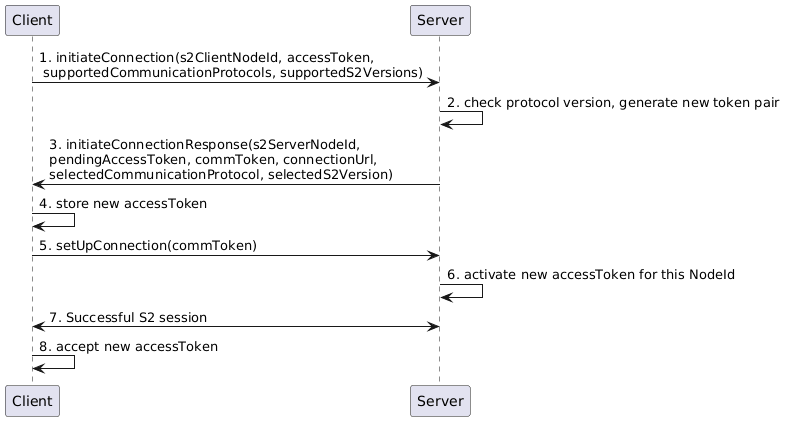
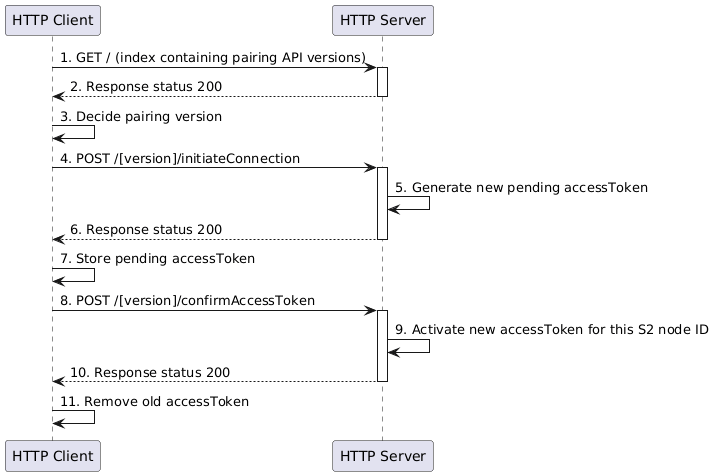
Further expanded pairing documentation

diff --git a/website/docs/communication-layer/discovery-pairing-authentication.md b/website/docs/communication-layer/discovery-pairing-authentication.md
@@ -67,10 +67,8 @@ Serialization: json.
 **Why not oAuth 2.0?**
 
 The short answer is: oAuth is mainly designed for accessing protected resources in the cloud and since the S2 CEM and RM would also need to be able to pair on a local network (even without requiring internet access) oAuth 2.0 is simply not a good fit. We have identified a way to make it work but since it is such non-typical way, we choose not to use oAuth 2.0. 
+
 For the long answer, please refer to [this page](why-not-oauth.md).
-
-
-
 
 ## Security requirements
 
@@ -123,21 +121,19 @@ The entire trust model of S2 is based on the fact that there is already a trust 
 
 # Terms and definitions (normative)
 
-TODO waar handig linkjes toevoegen naar sections met meer uitleg
-
 This specification uses the concepts that are defined below.
 
 | Term | Definition |
 | --- | --- |
-| Access token | A token that is used for setting up an S2 connection. It random binary data and must be generated by a cryptographically secure pseudorandom number generator and have a minimum length of 32 bytes. It is encoded using Base64. |
+| Access token | A token that is used for setting up an S2 connection. It random binary data and must be generated by a cryptographically secure pseudorandom number generator and have a minimum length of 32 bytes. It is encoded using Base64. Also see [11A. Response status 200](#11a-response-status-200). |
 | End user | A person or entity that manages S2 nodes. For the purpose of this specification it is assumed that there is already a trust relationship in place between this person and the S2 nodes. The means that the way the trust relationship has been established is out of scope for this specification. |
-| End user environment | An restricted area within an application that contains all the S2 nodes that belong to the end user. |
-| Initiator S2 node | The S2 node that that takes the initiative to pair with a responder S2 node. This is typically the S2 node from which the user initiates the pairing process. It is the counterpart of the responder S2 node. |
+| End user environment | An restricted area within an application that contains all the S2 nodes that belong to the end user. Also see [Deployment of S2 nodes](#deployment-of-s2-nodes). |
+| Initiator S2 node | The S2 node that that takes the initiative to pair with a responder S2 node. This is typically the S2 node from which the user initiates the pairing process. It is the counterpart of the responder S2 node. Also soo [Pairing and unpairing from the perspective of the end user](#pairing-and-unpairing-from-the-perspective-of-the-end-user). |
 | Pairing attempt | The process of pairing two S2 nodes. The process can be completed successfully or unsuccessfully. |
-| Pairing code | The pairing code is the string of characters the end user has to copy from the responder S2 node user interface to the initiator S2 node user interface, in order to pair the two S2 nodes. The pairing code consist of a pairing token and when required a pairing S2 node ID. |
-| Pairing S2 node ID | A short identifier for an S2 node, which is unique in the context of a single S2 endpoint. |
-| Pairing token | A secret string of characters, which acts as a proof of the trust relationship between the end user and an S2 node |
-| Responder S2 Node |  The S2 node that that responds to a request to pair. This is the S2 node that issued the pairing code. It is the counterpart of the initiator S2 node. |
+| Pairing code | The pairing code is the string of characters the end user has to copy from the responder S2 node user interface to the initiator S2 node user interface, in order to pair the two S2 nodes. The pairing code consist of a pairing token and when required a pairing S2 node ID. Also see [The pairing token, the pairing S2 node ID and the pairing code](#the-pairing-token-the-pairing-s2-node-id-and-the-pairing-code). |
+| Pairing S2 node ID | A short identifier for an S2 node, which is unique in the context of a single S2 endpoint. Also see [The pairing token, the pairing S2 node ID and the pairing code](#the-pairing-token-the-pairing-s2-node-id-and-the-pairing-code). |
+| Pairing token | A secret string of characters, which acts as a proof of the trust relationship between the end user and an S2 node. Also see [The pairing token, the pairing S2 node ID and the pairing code](#the-pairing-token-the-pairing-s2-node-id-and-the-pairing-code). |
+| Responder S2 Node |  The S2 node that that responds to a request to pair. This is the S2 node that issued the pairing code. It is the counterpart of the initiator S2 node. Also soo [Pairing and unpairing from the perspective of the end user](#pairing-and-unpairing-from-the-perspective-of-the-end-user). |
 | S2 endpoint | A service which can handle pairing requests or initiates pairing requests itself. An S2 endpoint can represent one S2 node, but could also represent many. |
 | S2 communication client | The S2 nodes which behaves as the HTTP client when initiating an S2 connection. |
 | S2 communication server | The S2 nodes which behaves as the HTTP server when initiating an S2 connection. |
@@ -548,7 +544,7 @@ The client **must** perform the following checks during this request:
 | Check | How to proceed if check fails |
 | --- | --- |
 | Check certificate | Pairing is failed, do not proceed with the pairing attempt |
-| If self signed certificate, check is server is local | Pairing is failed, do not proceed with the pairing attempt |
+| If self signed certificate, check if server is local | Pairing is failed, do not proceed with the pairing attempt |
 | Store fingerprint of certificate for later check | | 
 
 If no checks fail the client **should** proceed to the next step.
@@ -568,8 +564,8 @@ The client sends the following information (for full details see the OpenAPI spe
 
 | Information | Description |
 | --- | --- |
-| `s2ClientNodeDescription` | Information about the S2 node that wants to pair, such as brand, logo and type. Important fields include `id` (the S2 node ID) and `role` of the initiator S2 node |
-| `s2ClientEndpointDescription` | Information about the client S2 endpoint. An important field is the deployment. |
+| `clientS2NodeDescription` | Information about the S2 node that wants to pair, such as brand, logo and type. Important fields include `id` (the S2 node ID) and `role` of the initiator S2 node |
+| `clientS2EndpointDescription` | Information about the client S2 endpoint. An important field is the deployment. |
 | `pairingS2NodeID` | The pairing S2 node ID of the node that is being targeted (this field can be omitted if the endpoint only represents one S2 node) |  
 | `supportedCommunicationProtocols` | List of supported communications protocols of the client |
 | `supportedS2MessageVersions` | List of supported S2 message versions by the client |
@@ -582,7 +578,7 @@ The client **must** perform the following checks during this request:
 | Check | How to proceed if check fails |
 | --- | --- |
 | Check certificate | Pairing is failed, do not proceed with the pairing attempt |
-| If self signed certificate, check is server is local | Pairing is failed, do not proceed with the pairing attempt |
+| If self signed certificate, check if server is local | Pairing is failed, do not proceed with the pairing attempt |
 | Check if same fingerprint is used as previous request | Pairing is failed, do not proceed with the pairing attempt | 
 
 If no checks fail the client **should** proceed to the next step.
@@ -622,8 +618,8 @@ The server responds with the following information (for full details see the Ope
 | Information | Description |
 | --- | --- |
 | `pairingAttemptId` | The generated identifier for this pairing attempt |
-| `s2ServerNodeDescription` | Information about the S2 node that is being targeted, such as brand, logo and type. Important fields include `id` (the S2 node ID) and `role` of the responder S2 node |
-| `s2ServerEndpointDescription` | Information about the server S2 endpoint. An important field is the deployment. |
+| `serverS2NodeDescription` | Information about the S2 node that is being targeted, such as brand, logo and type. Important fields include `id` (the S2 node ID) and `role` of the responder S2 node |
+| `serverS2EndpointDescription` | Information about the server S2 endpoint. An important field is the deployment. |
 | `selectedHmacHashingAlgorithm` | The hashing algorithm for the challenge response function as selected in step 2 |
 | `clientHmacChallengeResponse` | The response to the challenge provided by the HTTP client as calculated in step 2 |
 | `serverHmacChallenge` | The challenge created by the HTTP server for the challenge response process (see [Challenge response process](#challenge-response-process).) |
@@ -667,7 +663,7 @@ The client **must** perform the following checks during this request:
 | Check | How to proceed if check fails |
 | --- | --- |
 | Check certificate | Pairing is failed, do not proceed with the pairing attempt |
-| If self signed certificate, check is server is local | Pairing is failed, do not proceed with the pairing attempt |
+| If self signed certificate, check if server is local | Pairing is failed, do not proceed with the pairing attempt |
 | Check if certificate is pinned | Pairing is failed, do not proceed with the pairing attempt | 
 
 If no checks fail the client **should** proceed to the next step.
@@ -707,7 +703,7 @@ The client **must** perform the following checks during this request:
 | Check | How to proceed if check fails |
 | --- | --- |
 | Check certificate | Pairing is failed, do not proceed with the pairing attempt |
-| If self signed certificate, check is server is local | Pairing is failed, do not proceed with the pairing attempt |
+| If self signed certificate, check if server is local | Pairing is failed, do not proceed with the pairing attempt |
 | Check if certificate is pinned | Pairing is failed, do not proceed with the pairing attempt | 
 
 If no checks fail the client **should** proceed to the next step.
@@ -739,7 +735,7 @@ The client **must** perform the following checks during this request:
 | Check | How to proceed if check fails |
 | --- | --- |
 | Check certificate | Pairing is failed, do not proceed with the pairing attempt |
-| If self signed certificate, check is server is local | Pairing is failed, do not proceed with the pairing attempt |
+| If self signed certificate, check if server is local | Pairing is failed, do not proceed with the pairing attempt |
 | Check if certificate is pinned | Pairing is failed, do not proceed with the pairing attempt | 
 
 If no checks fail the client **should** proceed to the next step.
@@ -763,7 +759,7 @@ If the HTTP server was using a self-signed certificate, the HTTP client can now 
 ### Interruption of the process
 A pairing attempt has a maximum duration of 15 seconds. That means that once a `pairingAttemptId` has been issued, this `pairingAttemptId` cannot be used after 15 seconds since it was issued. From the perspective of the HTTP server, any pairing attempt that is not completed in 15 seconds (with success or not) is considered a failed attempt. From the perspective of the HTTP client, if the server does not respond within 15 seconds since it received the `pairingAttemptId`, it must consider the pairing attempt as failed. If the HTTP client wants to make another attempt, it should start again at step 1 or step 4.
 
-### Wrong interactions
+### Invalid interactions
 If the server receives wrong HTTP request (e.g. `/postConnectionDetails` while it was expecting `/requestConnectionDetails`) or when it receives the requests in the wrong order (e.g. `/finalizePairing` with `success` = `true` before calling `/requestConnectionDetails`) it **must** respond with an status 400 and consider the pairing attempt as failed. The only exception is receiving the same request twice.
 
 # S2 Connection (normative)
@@ -816,7 +812,7 @@ Client->Client: 7. Store pending accessToken
 Client->Server++: 8. POST /[version]/confirmAccessToken
 Server->Server: 9. Activate new accessToken for this S2 node ID 
 Server-->Client--: 10. Response status 200
-Client -> Client : 11. Accept new accessToken
+Client -> Client : 11. Remove old accessToken
 @enduml
 ```
 
@@ -861,7 +857,7 @@ The client **must** perform the following checks during this request:
 | Check | How to proceed if check fails |
 | --- | --- |
 | Check certificate | Initiation is failed, do not proceed with the initiation attempt |
-| If self signed certificate, check is server is local | Initiation is failed, do not proceed with the initiation attempt |
+| If self signed certificate, check if server is local | Initiation is failed, do not proceed with the initiation attempt |
 | Check if certificate is pinned | Initiation is failed, do not proceed with the initiation attempt | 
 
 If no checks fail the client **should** proceed to the next step.
@@ -870,10 +866,10 @@ The client sends the following information (for full details see the OpenAPI spe
 
 | Information | Description |
 | --- | --- |
-| `s2ClientNodeId` | The S2 node ID of the S2 communications client that wants to connect to the server. |
-| `s2ServerNodeId` | The S2 node ID of the S2 communications server that the client wants to connect to. |
-| `s2ClientNodeDescription` | Information about the S2 node, such as brand, logo and type. This only needs to be provided if the S2 communication client wants to update this information, otherwise the S2 communication server will assumer the stored information is still valid. |
-| `s2ClientEndpointDescription` | Information about the client S2 endpoint. This only needs to be provided if the S2 communication client wants to update this information, otherwise the S2 communication server will assumer the stored information is still valid. |
+| `clientS2NodeId` | The S2 node ID of the S2 communications client that wants to connect to the server. |
+| `serverS2NodeId` | The S2 node ID of the S2 communications server that the client wants to connect to. |
+| `clientS2NodeDescription` | Information about the S2 node, such as brand, logo and type. This only needs to be provided if the S2 communication client wants to update this information, otherwise the S2 communication server will assumer the stored information is still valid. |
+| `clientS2EndpointDescription` | Information about the client S2 endpoint. This only needs to be provided if the S2 communication client wants to update this information, otherwise the S2 communication server will assumer the stored information is still valid. |
 | `supportedCommunicationProtocols` | List of supported communications protocols of the client |
 | `supportedS2MessageVersions` | List of supported S2 message versions by the client |
 
@@ -883,9 +879,9 @@ The server **must** perform the checks in the table below to make sure that it c
 | --- | --- | --- |
 | Is the request properly formatted and does it follow the schema? | `CommunicationDetailsErrorMessage` with errorMessage `Parsing error` | Retry later |
 | Was this S2 node ID paired with this S2 node, but was it unpaired? | `CommunicationDetailsErrorMessage` with errorMessage `No longer paired` | Do not retry, inform end user |
-| Is this `s2ClientNodeId` paired with the `s2ServerNodeId`? | Status code 401 | Do not retry, inform end user |
-| Is the `s2ServerNodeId` known? | Status code 401 | Do not retry, inform end user |
-| Is this the correct `accessToken` for this S2 node ID?  | Status code 401 | Do not retry, inform end user |
+| Is this `clientS2NodeId` paired with the `serverS2NodeId`? | Status code 401 | Try with other `accessToken` if possible. Otherwise do not retry, inform end user |
+| Is the `serverS2NodeId` known? | Status code 401 | Try with other `accessToken` if possible. Otherwise do not retry, inform end user |
+| Is this the correct `accessToken` for this S2 node ID?  | Status code 401 | Try with other `accessToken` if possible. Otherwise do not retry, inform end user |
 | Is there overlap between the communication protocols? | `CommunicationDetailsErrorMessage` with errorMessage `Incompatible communication protocols` | Retry later |
 | Is there overlap between the S2 message versions? | `CommunicationDetailsErrorMessage` with errorMessage `Incompatible S2 message versions` | Retry later |
 | Are the S2 endpoint and S2 node ready for pairing? | `CommunicationDetailsErrorMessage` with errorMessage `Other` | Retry later |
@@ -936,29 +932,32 @@ If no checks fail the client **should** proceed.
 
 ### 9. Activate new `accessToken` for this S2 node ID 
 
-If the provided `accessToken` is in the list pending `accessToken`s, and the token was generated not more than 30 seconds ago, the server now makes the pending `accessToken` the active `accessToken` for this pairing of S2 nodes. Also, the entry is removed from the list of pending `accessToken`s.
+If the provided `accessToken` is in the list pending `accessToken`s, and the token was generated not more than **15 seconds** ago, the server now makes the pending `accessToken` the active `accessToken` for this pairing of S2 nodes (thereby invalidating the old `accessToken`). Also, the entry is removed from the list of pending `accessToken`s.
 
 If the provided `accessToken` is not in the list of pending `accessTokens`s, the server must not accept the connection and respond with status 401. The client can try again later starting at step 1.
 
 If the server is not able to active the new `accessToken` (e.g. because the storage device or the DBMS is not available), the server must not accept the connection and responds with an error code 500. The client can try again later starting at step 1.
 
-## 7. Successful S2 session?
+### 10. Response status 200
 
-a. The S2 session is successfully opened. This is an implicit acknowledgement that both server and the client are in possession of the new tokens. For the server it is an acknowledgement that is has activated the new access token successfully and for the client it means that it did correctly receive and persist the new accessToken. 
+The S2 communication server sends the details and credentials to open a socket for communicating the S2 messages. The exact contents of this message depend on the selected communication protocol. In any case it will be a JSON object containing the field `communicationProtocol`. The presence on other fields will depend on the value of the `communicationProtocol` field.
 
-b. If for any reason the S2 session is not set up successfully, the process terminates. The client can restart the process from the beginning when desired.
+If the response is not understood by the S2 communication client, the client **should** retry later.
 
-## 8. Remove old tokens
+### 11. Remove old accessToken
 
-a. Since the server implicitly acknowledged the new accessToken, all pairs of accessToken and commToken which do not contain the used commToken can be removed.
+Step 10 functions as a confirmation to the S2 communication client that the S2 communication server has activated the new `accessToken` for this pairing. The old `accessToken` cannot be used anymore, so the S2 communication client must remove the old `accessToken` from the list of `accessToken`s.
 
-b. If the client is not able to remove the old tokens (e.g. because the storage device or the DBMS is not available) it can continue working as normal.
+### Interruption of the process
+Once the S2 communication server has generated a new pending `accessToken`, it must be confirmed within 15 seconds by the S2 communication client. If this doesn't happen, a client will have to start the process from step 1 (or step 4) again.
+
+If the S2 communication client doesn't receive a response to confirming the new `accessToken` (step 10), it does not know if the server has activated the new `accessToken`, or if the old `accessToken` is still in place. It now has (at least) two `accessToken`s in its list, and does not know for certain which one is activate at the S2 communication server. If it 
 
 ## WebSocket based communication
 
 This section specifies how to use WebSocket Secure as the S2-over-TCP/IP application layer protocol.
 
-The WebSocket client **must** run on the S2ClientNode and the WebSocket server on the S2ServerNode.
+The WebSocket client **must** run on the S2 communication client and the WebSocket server on the S2 communication server.
 
 The choice for a WebSocket as application layer communication protocol has the advantage that the session concept is intrinsically introduced with the communication protocol. All S2 communication happens in the context of a (stateful) S2 session which is catered for by the WebSocket session. So, the S2 session matches the WebSocket session.
 
@@ -967,7 +966,7 @@ The client **must** perform the following checks during this request:
 | Check | How to proceed if check fails |
 | --- | --- |
 | Check certificate | Websocket connection failed, do not proceed with the connection attempt |
-| If self signed certificate, check is server is local | Websocket connection failed, do not proceed with the connection attempt |
+| If self signed certificate, check if server is local | Websocket connection failed, do not proceed with the connection attempt |
 | Check if certificate is pinned | Websocket connection failed, do not proceed with the connection attempt | 
 
 If no checks fail the client **should** proceed to the next step.
@@ -981,7 +980,7 @@ For each S2 WebSocket session the client **must** authenticate itself using the 
 Communication over the WebSocket endpoint **must** be encrypted following [RFC 6455 The WebSocket Protocol](https://datatracker.ietf.org/doc/html/rfc6455). S2 **MUST NOT** be sent over unencrypted channels. Therefore a wss connection (the URL starting with wss://) must be used. 
 
 ### Compression
-
+ 
 The WebSocket Protocol ([RFC6455](https://datatracker.ietf.org/doc/html/rfc6455)) has an extension for compression: [**RFC 7692**](https://datatracker.ietf.org/doc/html/rfc7692.html) implementing so called per-message-deflate compression. https://datatracker.ietf.org/doc/html/rfc7692
 
 RFC 7692 is widely supported by WebSocket libraries and and we are exchanging JSON plain text messages, it is expected to save a large amount of data. Therefore, implementations of S2 WebSockets **SHOULD** support RFC 7692 and **SHOULD** enable it whenever possible.
@@ -1053,15 +1052,17 @@ WebSocketDisconnected --> [*]
 
 # Unpairing process (normative)
 
-Unpairing can either be initiated by S2Node that runs the CEM or the RM.
+Unpairing can be initiated by either S2 node, and **should** only be done when instructed by the end user. The S2 node that did not take the initiative to unpair **should** try to inform the end user that the S2 node is no longer paired.
 
-As the pairing and authorization process is based on a client/server model, the following applies to the unpairing process.
+## Unpairing by the S2 communication client
 
-If the client node takes the initiative to unpair, it first **should** close any active connections it has and subsequently call the unpair HTTP API endpoint of the server using its access token. Upon receiving the unpair call from a client, the S2 server node **must** remove all security information related to the paired node. After the response has been received by the client, the client **must** remove all security information of the server node.
+If the S2 communication client takes the initiative to unpair, it first **should** close the S2 communication session regarding this pairing (if there is one). Then it **must** call the `/[version]/unpair` HTTP API endpoint of the server using its `accessToken` (after discovering the API version at the server, the same way as steps 1 to 3 as mentioned in [Connection initiation](#connection-initiation)). Upon receiving the unpair call from a client, the S2 server node **must** remove all security information related to this pairing. Then the client **must** remove all security information of the S2 communication server related to this pairing.
 
-If the server takes the initiative to unpair, first it **must** remove all security information related to client node. After that, it **should** send an S2 [SessionRequest](/model-reference/Common/SessionRequest/) message with type [RECONNECT](/model-reference/Common/SessionRequestType/) to the client. The next initiateConnection HTTP API request **must** fail with the 'Unknown node ID' response to let the client know that it is not paired anymore.
+## Unpairing by the S2 communication server
 
-Client and server **can** keep other (non-security) information for user experience purposes.
+If the server takes the initiative to unpair, first it **must** remove all security information related to client node. After that, if there is an active S2 session, it **should** send an S2 [SessionRequest](/model-reference/Common/SessionRequest/) message with type [RECONNECT](/model-reference/Common/SessionRequestType/) to the client. The next `/[version]/initiateConnection` HTTP API request **must** fail with the `No longer paired` response to let the client know that it is not paired anymore.
+
+Client and server **can** keep other (non-security) information for, for example, user experience purposes.
 
 # Security (normative)
 
